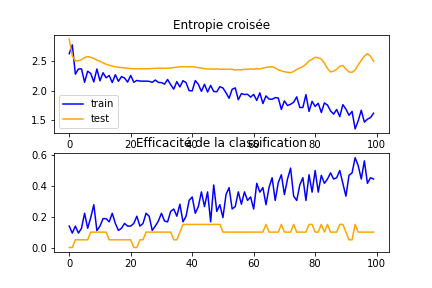
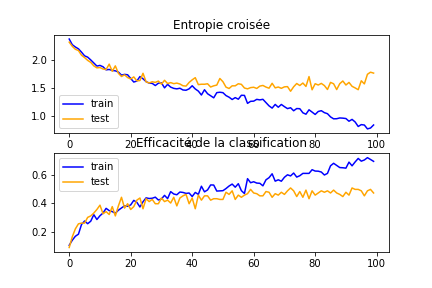
Mise à jour

diff --git a/README.md b/README.md
@@ -58,17 +58,23 @@ Cliquer sur la double flèche (ou le bouton "Run all" sur la version la plus ré
 ## Résultats
 
 Sans la méthode data augmentation :
+
+![image](https://user-images.githubusercontent.com/67276724/124312129-1c71b980-db6f-11eb-9cc8-a31405198973.png)
+
 - Sur l'enthropie croisée, au début, le train et le test sont de même valeur avant que le train diminue sa perte alors que le test parvient à conserver une valeur stable
 - De plus, la courbe de test repart à la hausse. Donc il y a surentrainement
-- Sur l'efficacité de la classification, le train et le test sont de même valeur avant que le train augmente sa perte alors que le test parvient à conserver une valeur stable
+- Sur la Classification Accuracy, le train et le test sont de même valeur avant que le train augmente sa perte alors que le test parvient à conserver une valeur stable
 - Sur les deux graphiques : la différence du train par rapport au test est que le train a un écart deux fois plus élevé que le test
 
 Avec la méthode data augmentation :
+
+![image](https://user-images.githubusercontent.com/67276724/124312189-34493d80-db6f-11eb-8ff2-751ec28992c4.png)
+
 - Vers le fin des epoch, le résultat est semblable que les résultats sans méthode data augmentation
-- Cependant, les valeurs entre le train et le test restent bien plus longtemps semblable avant de diverger, surtout sur l'efficacité de la classification
+- Cependant, les valeurs entre le train et le test restent bien plus longtemps semblable avant de diverger, surtout sur la Classification Accuracy
 - De plus, sur l'enthropie croisée, la courbe de test parvient à rester stable. Donc il n'y a pas de surentrainement
 
-En conclusion, la méthode de data augmentation est préférable car elle permet de prévenir le surentrainement et de mieux stabilier les pertes et efficacités entre les train et les tests.
+En conclusion, la méthode de data augmentation est préférable car non seulment elle permet de prévenir le surentrainement et de mieux stabilier les pertes et efficacités entre les train et les tests, mais en plus elle permet un traitement plus rapide.
 
 
 
